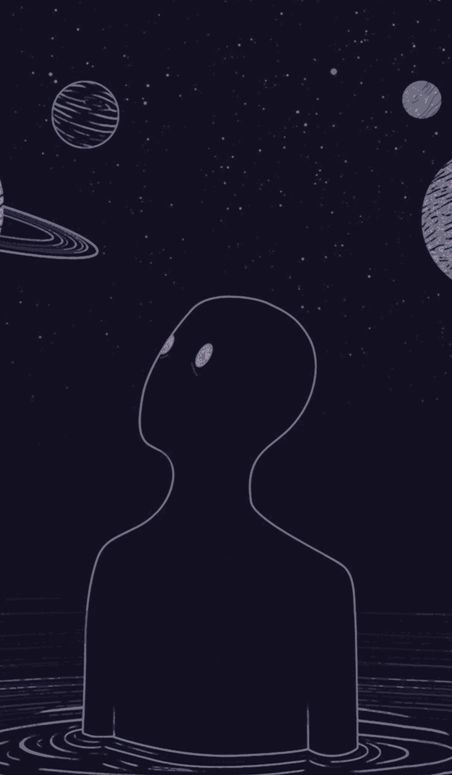
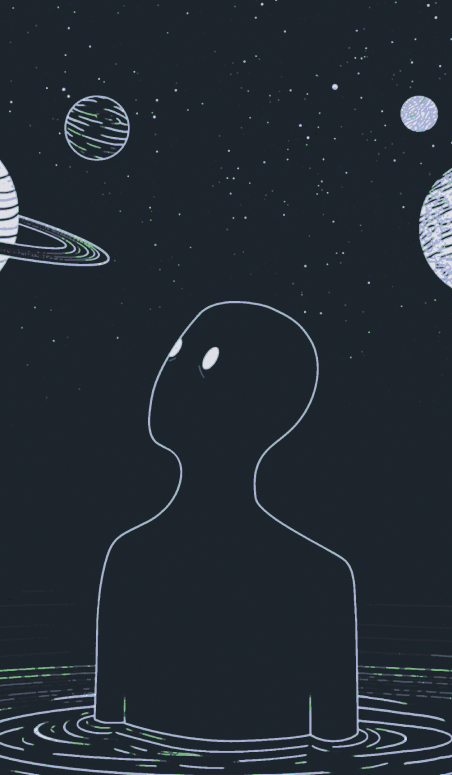
Change to TokyoNight and change Search Engine to Startpage

diff --git a/index.html b/index.html
@@ -1,10 +1,14 @@
 <!DOCTYPE html>
 <html>
+
 <head>
   <title>~/startpage 🏠</title>
   <link rel="stylesheet" type="text/css" href="style.css">
-  <link rel="icon" href="https://code.toofishes.net/cgit/dan/archweb.git/plain/public/static/logos/archlinux-logo-only.svg"  type="image/icon type">
+  <link rel="icon"
+    href="https://code.toofishes.net/cgit/dan/archweb.git/plain/public/static/logos/archlinux-logo-only.svg"
+    type="image/icon type">
 </head>
+
 <body>
   <div class="image">
     <img alt="fem" src="abstract-small.jpg">
@@ -14,7 +18,7 @@
     <h2 id="date"></h2>
     <ul>
       <li>~/general </li>
-      <li><a href="http://localhost:5000/">Whoogle</a></li>
+      <li><a href="https://www.startpage.com/?sc=NXi5qSKJIwj120">Startpage</a></li>
       <li><a href="https://youtube.com">YouTube</a></li>
       <li><a href="https://monkeytype.com/">MonkeyType</a></li>
       <li><a href="https://gmail.com/">Gmail</a></li>
@@ -47,4 +51,5 @@
   </nav>
   <script type="text/javascript" src="index.js"></script>
 </body>
+
 </html>

diff --git a/style.css b/style.css
@@ -1,5 +1,5 @@
 @font-face {
-  font-family: Font;
+  font-family: "Font";
   src: url("./JetBrains.ttf");
 }
 
@@ -12,8 +12,8 @@ html {
 
 body {
   display: flex;
-  color: #F5C2E7;
-  background: #1E1E2E;
+  color: #bb9af7;
+  background: #1a1b26;
   margin-right: 9em;
   padding: 1em;
   font-family: Font;
@@ -46,7 +46,7 @@ h1 {
 h2 {
   font-size: 1.2em;
   font-weight: 600;
-  color: #525252;
+  color: #7aa2f7;
   grid-column: 1/-1;
   text-align: center;
   margin-bottom: 2.3em;
@@ -66,7 +66,7 @@ li {
 
 li:first-child {
   display: inline-block;
-  color: #89DCEB;
+  color: #7aa2f7;
   font-size: 1.5em;
   font-weight: 600;
   text-align: center;
@@ -75,12 +75,12 @@ li:first-child {
 }
 
 a {
-  color: #D9E0EE;
+  color: #CDD6F4;
   font-size: 1.1em;
   text-decoration: none;
 }
 
 a:hover {
-  color: #FAE3B0;
+  color: #e0af68;
   font-style: italic;
 }

diff --git a/scss/theme.scss b/scss/theme.scss
@@ -1,5 +1,5 @@
 // font settings:
-$fontFace: ./Iosevka.ttf;
+$fontFace: ./JetBrains.ttf;
 $fontHoverStyle: italic;
 $fontWeight: 600;
 $fontH1Size: 2.2em;
@@ -8,8 +8,8 @@ $fontLiFCSize: 1.5em;
 $fontASize: 1.1em;
 
 // color settings:
-$themeFg: #D9E0EE;
-$themeFgAlt: #F5C2E7;
-$themeAccent: #96CDFB;
-$themeHover: #89DCEB;
-$themeBg: #1E1E2E;
+$themeFg: #b6beca;
+$themeFgAlt: #c68aee;
+$themeAccent: #74bee9;
+$themeHover: #70a5eb;
+$themeBg: #171B20;
